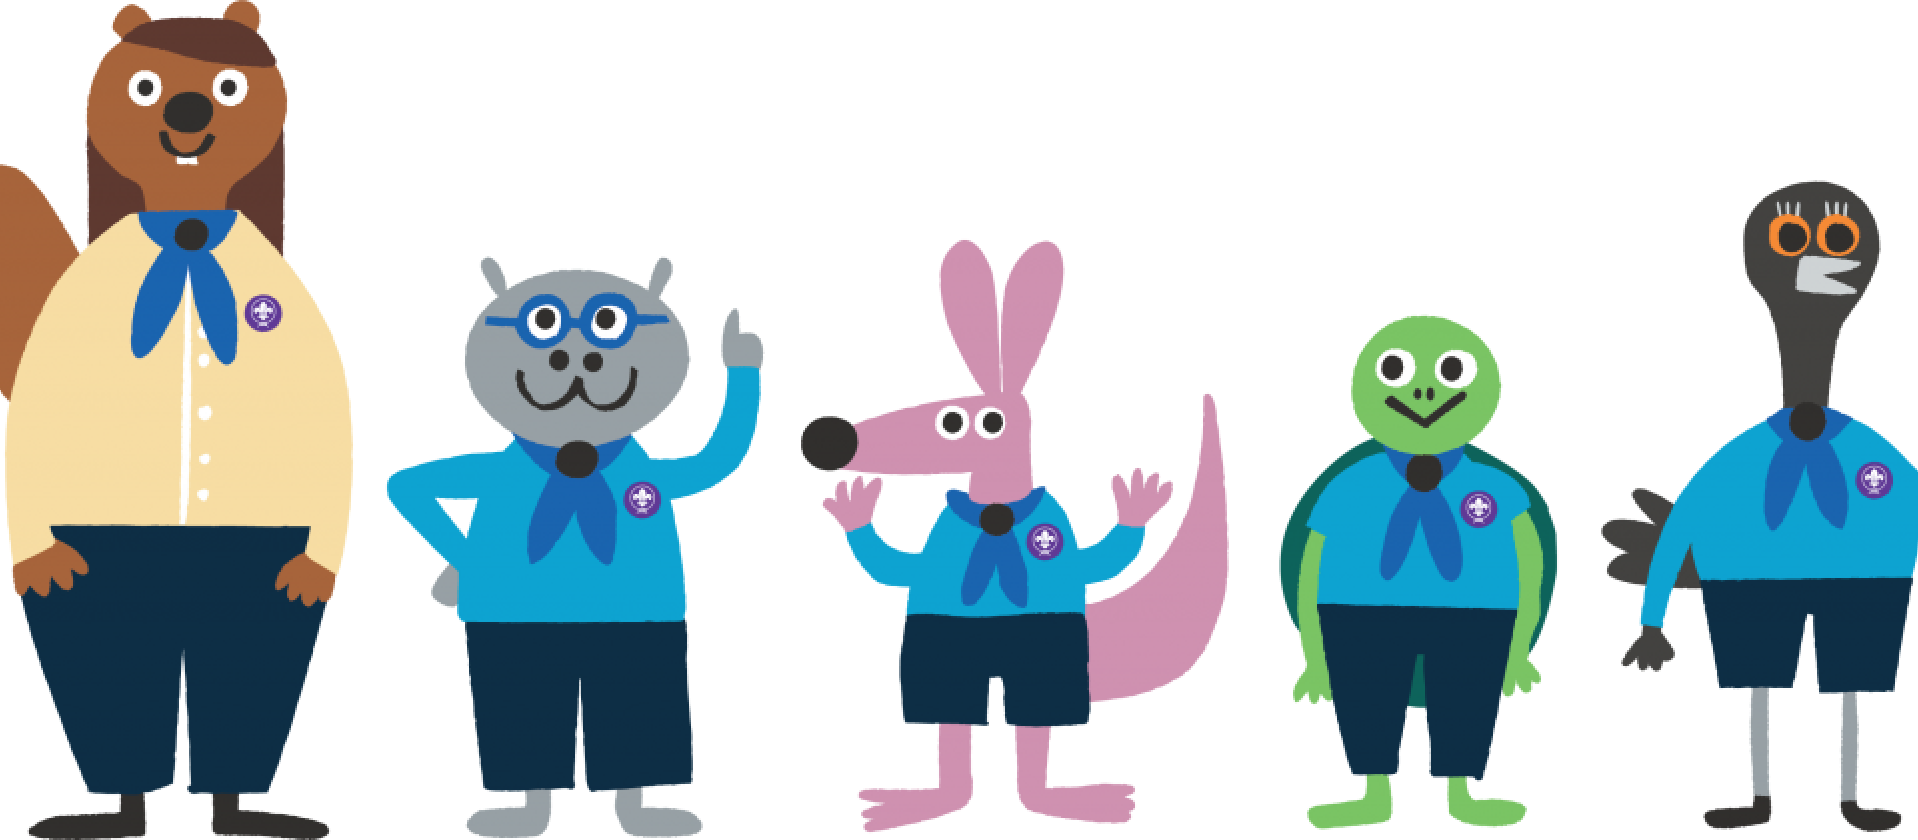
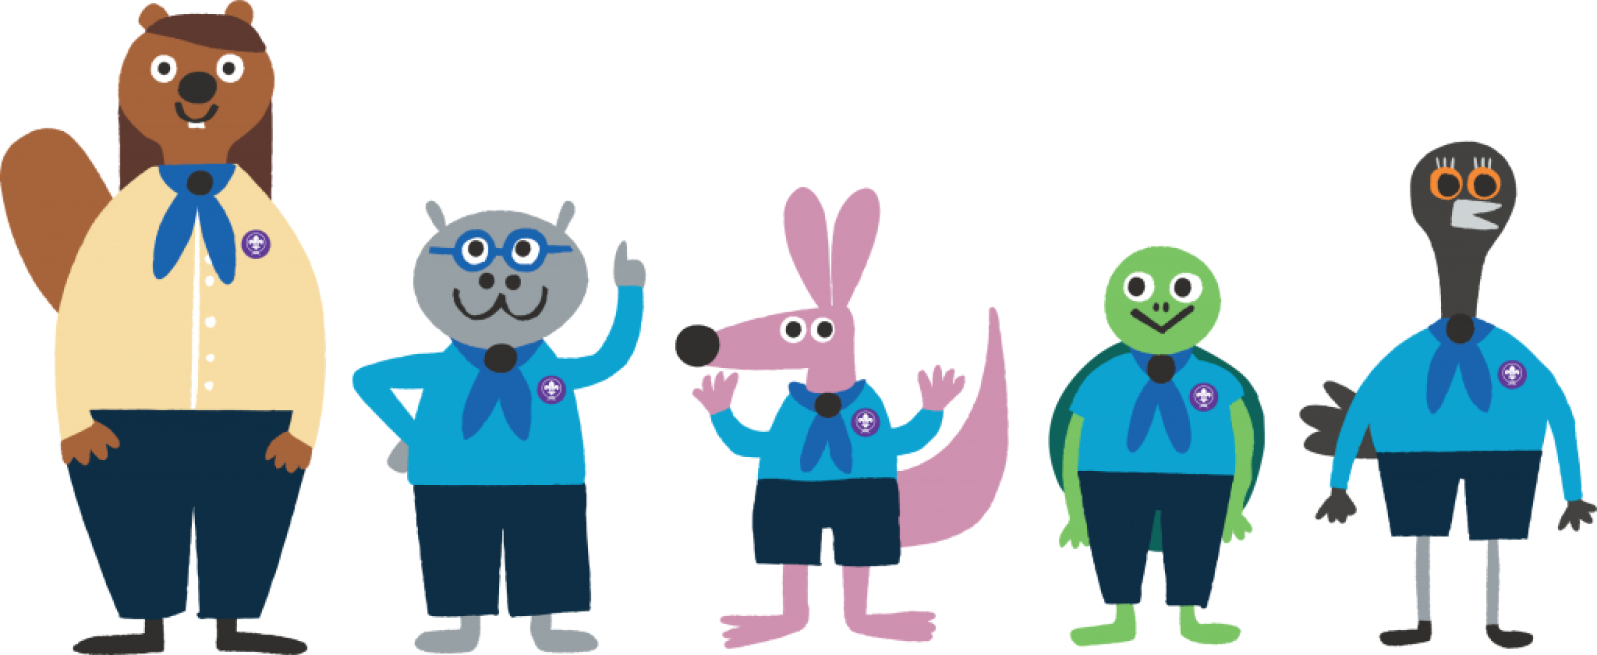
footer animales mas pequeños

diff --git a/style.css b/style.css
@@ -7,29 +7,31 @@ footer{
   text-align: center;
   display: flex;
   flex-direction: column;
+  align-items: center ;
 }
 
 .footerAnimalitos{
-  width: 98vw;
+  width: 99vw;
   height: 370px;
+
 }
 
 .footerAnimalitos img{
-  width: 90vw;
-  height: 350px;
+  width: 700px;
+  height: 300px;
 }
 
 .informacionFooter{
    margin-top: 45px;
-   width: 99vw;
+   width: 1024px;
    text-align: center;
    display: flex;
    flex-direction: column;
-   align-items: center;
+   align-items: center; 
   
 }
 .informacionFooter img{
-  width: 270px;
+  width: 220px;
   padding-bottom: 25px;
 }
 
@@ -39,13 +41,12 @@ footer{
 }
 
 .informacionFooter i{
-  font-size: 80px;
+  font-size: 60px;
   margin: 15px 20px;
 }
 
 .informacionFooter .derechosReservados{
   font-weight: lighter;
   font-size: 16px;
-  text-align: center;
   margin-top: 10px;
 }

diff --git a/index.html b/index.html
@@ -11,6 +11,7 @@
     ></script>
   </head>
   <body>
+
     <footer>
       <div class="footerAnimalitos">
         <img src="./img/footer-animalitos.png" alt="" />
@@ -28,6 +29,7 @@
           >© 2023 EcoAmigo Inc. All Rights Reserved.</span
         >
       </div>
+    
     </footer>
   </body>
 </html>
